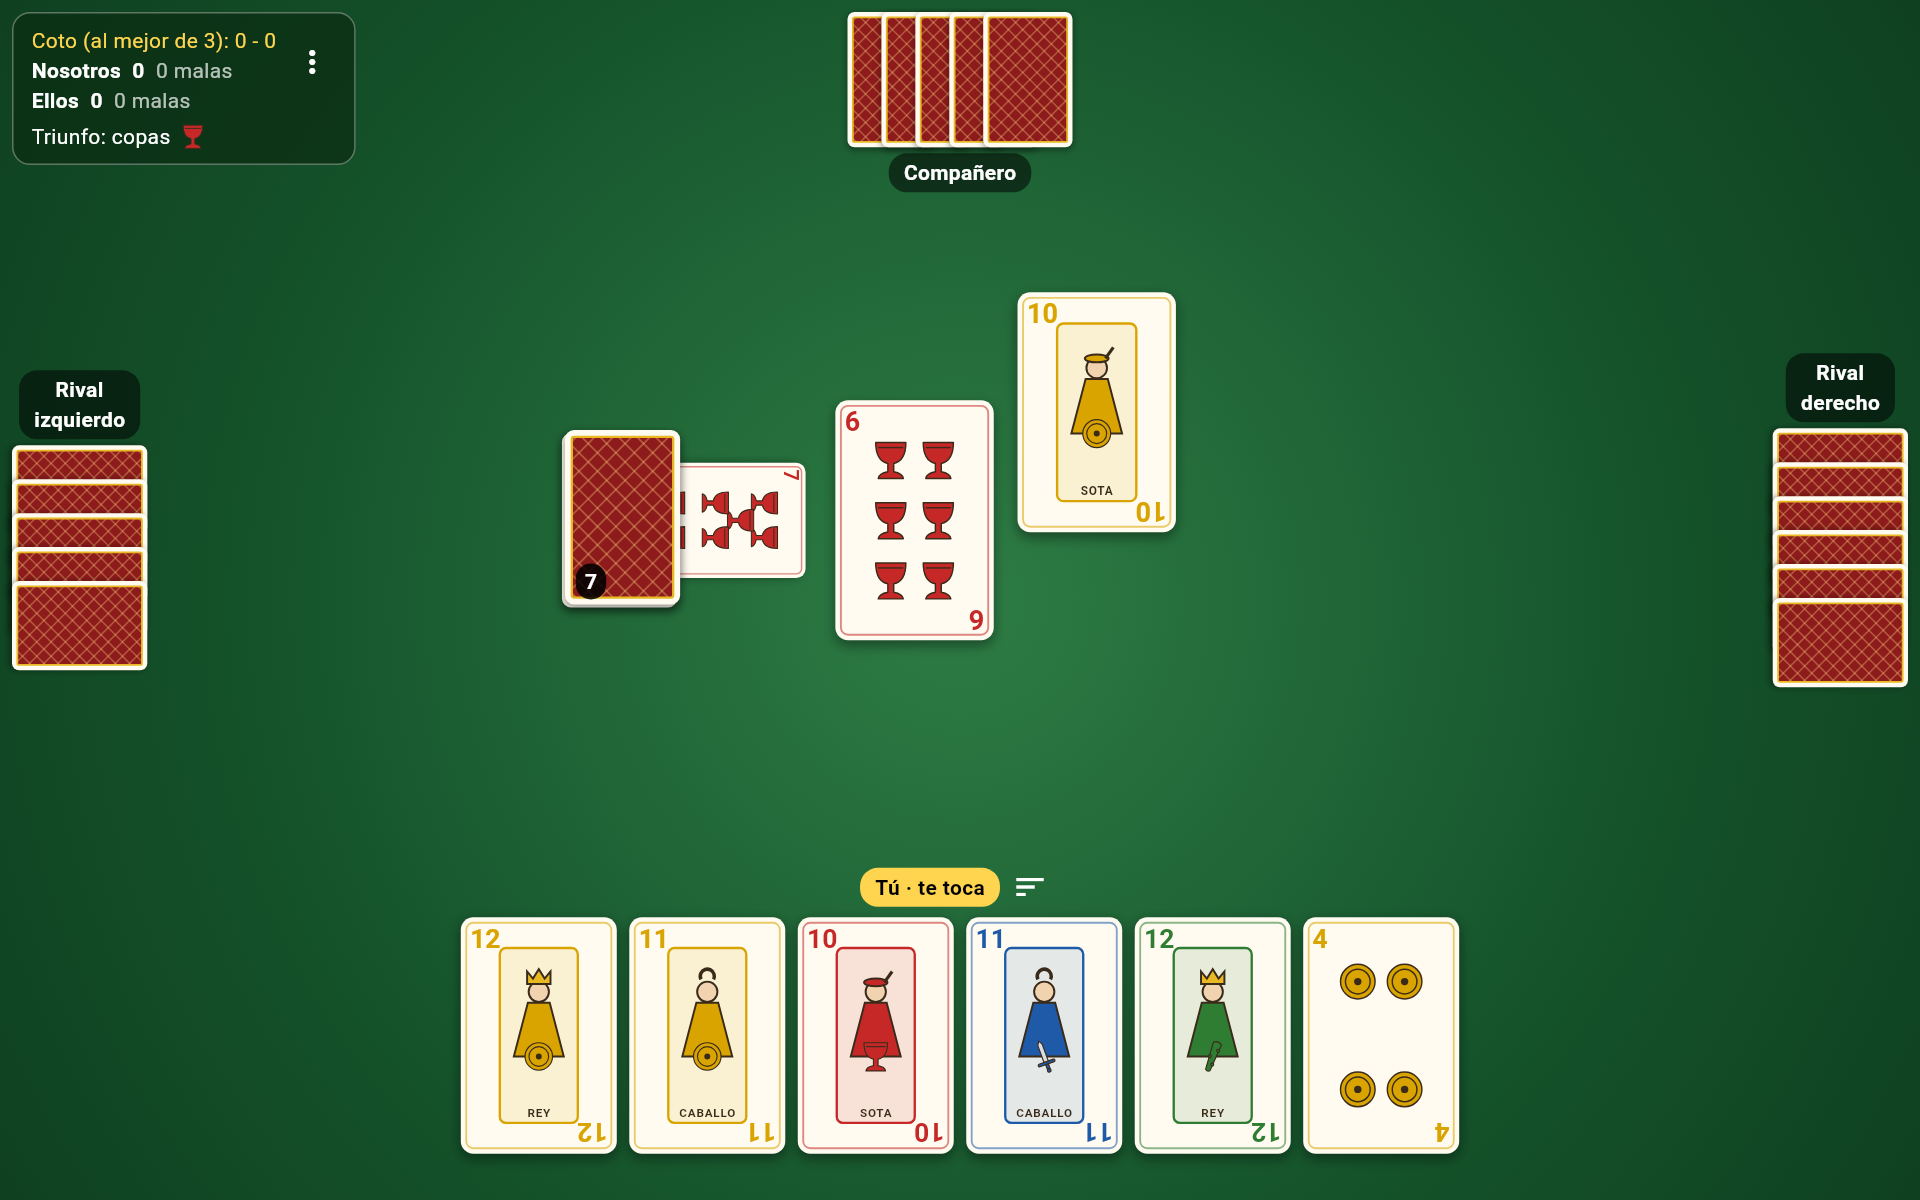
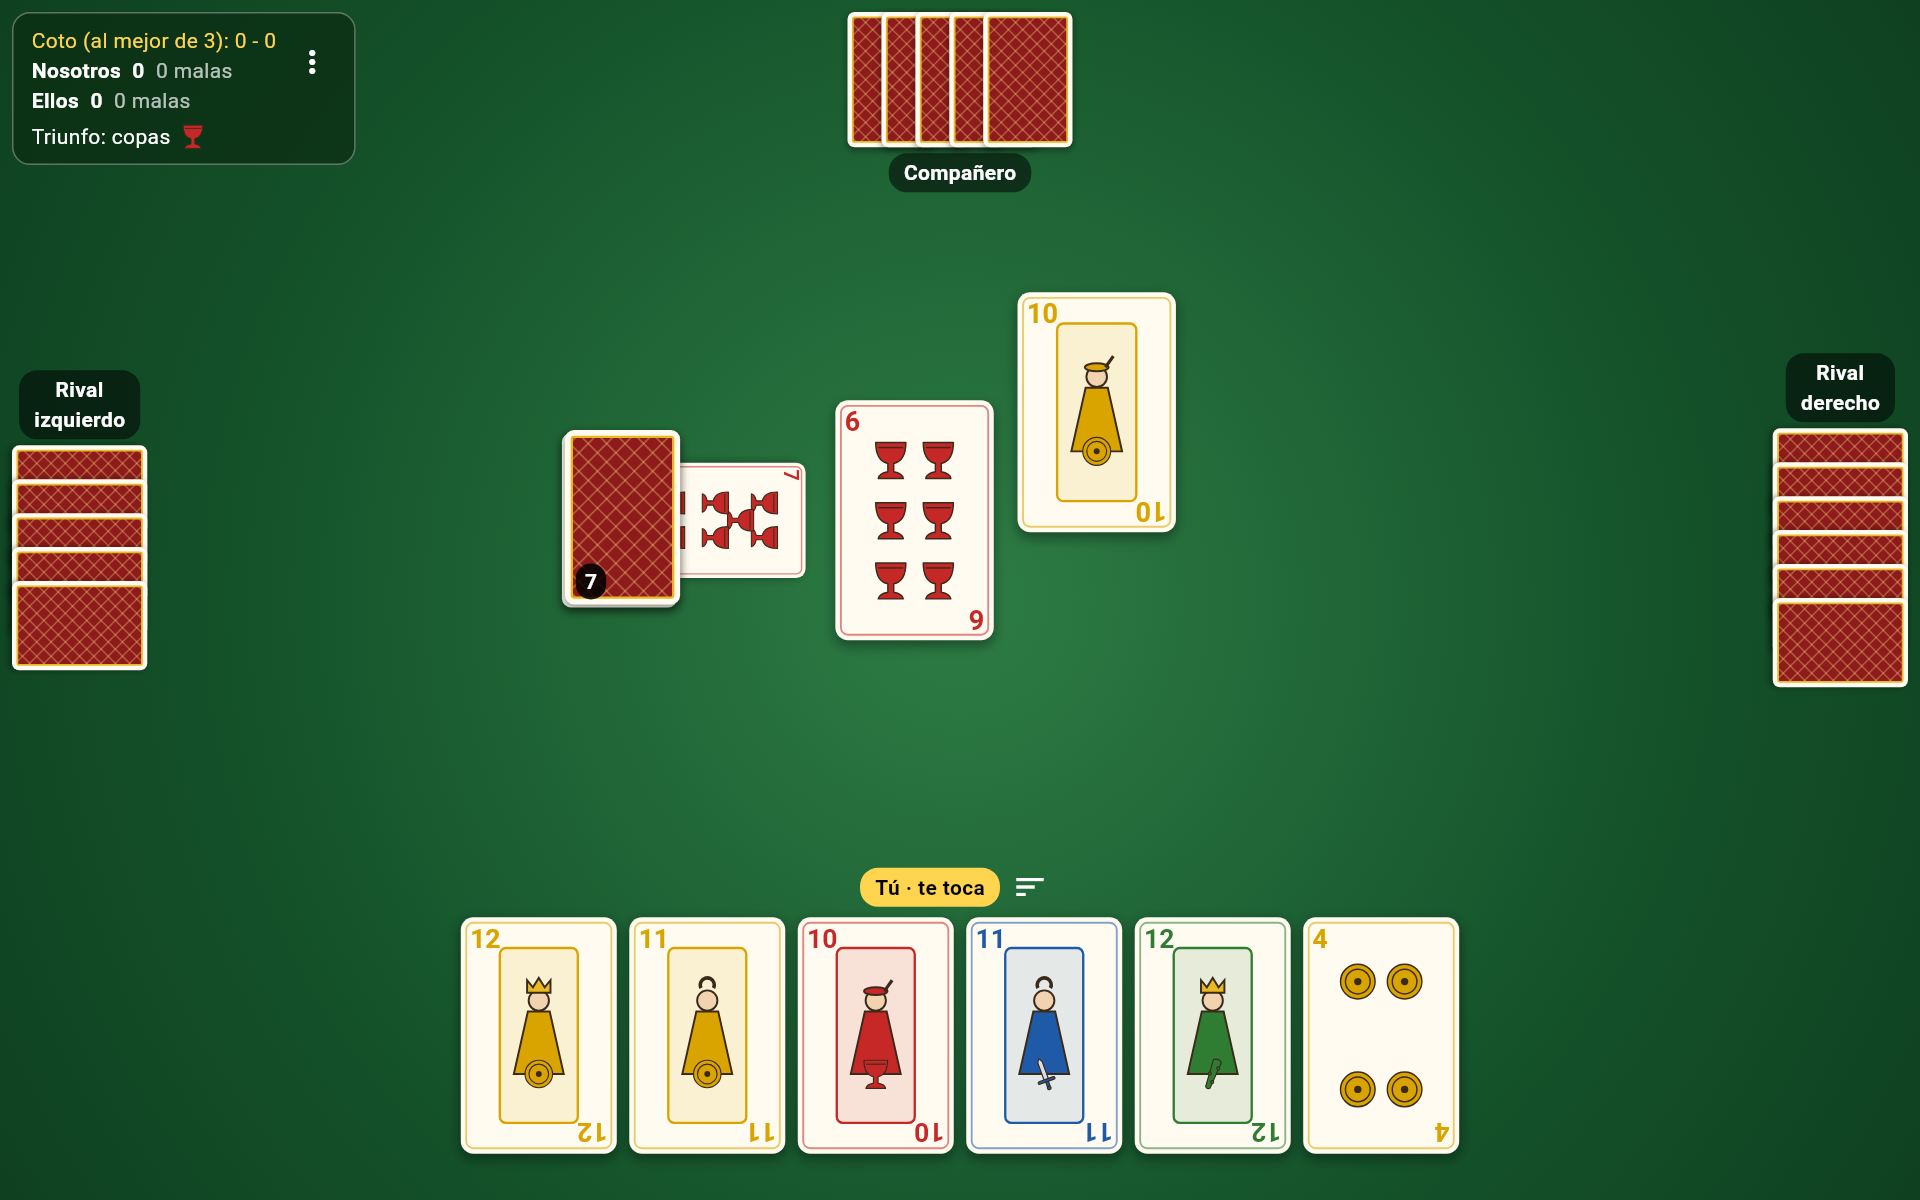
Figuras sin nombre: se reconocen por el número y el dibujo

diff --git a/app/lib/src/cartas/pintor_carta.dart b/app/lib/src/cartas/pintor_carta.dart
@@ -125,7 +125,8 @@ class PintorCarta extends CustomPainter {
     ],
   };
 
-  /// Figuras: retrato estilizado con el nombre y el símbolo del palo.
+  /// Figuras: retrato estilizado con el símbolo del palo. Sin nombre: se
+  /// reconocen por el número y el dibujo, como en la baraja de verdad.
   void _figura(Canvas canvas, Rect zona) {
     final color = colorPalo(carta.palo);
     final marco = RRect.fromRectAndRadius(
@@ -143,7 +144,7 @@ class PintorCarta extends CustomPainter {
 
     final cx = zona.center.dx;
     final u = zona.width;
-    final cabeza = Offset(cx, zona.top + zona.height * 0.25);
+    final cabeza = Offset(cx, zona.top + zona.height * 0.3);
     final relleno = Paint()..color = color;
     final piel = Paint()..color = const Color(0xFFF2D3B0);
     final contorno = Paint()
@@ -155,8 +156,8 @@ class PintorCarta extends CustomPainter {
     final cuerpo = Path()
       ..moveTo(cx - u * 0.14, cabeza.dy + u * 0.14)
       ..lineTo(cx + u * 0.14, cabeza.dy + u * 0.14)
-      ..lineTo(cx + u * 0.32, zona.top + zona.height * 0.62)
-      ..lineTo(cx - u * 0.32, zona.top + zona.height * 0.62)
+      ..lineTo(cx + u * 0.32, zona.top + zona.height * 0.72)
+      ..lineTo(cx - u * 0.32, zona.top + zona.height * 0.72)
       ..close();
     canvas.drawPath(cuerpo, relleno);
     canvas.drawPath(cuerpo, contorno);
@@ -208,28 +209,9 @@ class PintorCarta extends CustomPainter {
     pintarSimbolo(
       canvas,
       carta.palo,
-      Offset(cx, zona.top + zona.height * 0.62),
+      Offset(cx, zona.top + zona.height * 0.72),
       u * 0.42,
     );
-
-    final nombre = TextPainter(
-      text: TextSpan(
-        text: carta.valor.nombre.toUpperCase(),
-        style: TextStyle(
-          color: _tinta,
-          fontFamily: 'Roboto',
-          fontSize: u * 0.15,
-          fontWeight: FontWeight.w700,
-          letterSpacing: u * 0.01,
-        ),
-      ),
-      textDirection: TextDirection.ltr,
-    )..layout(maxWidth: zona.width);
-    nombre.paint(
-      canvas,
-      Offset(cx - nombre.width / 2, zona.bottom - nombre.height - u * 0.04),
-    );
-    nombre.dispose();
   }
 
   @override
